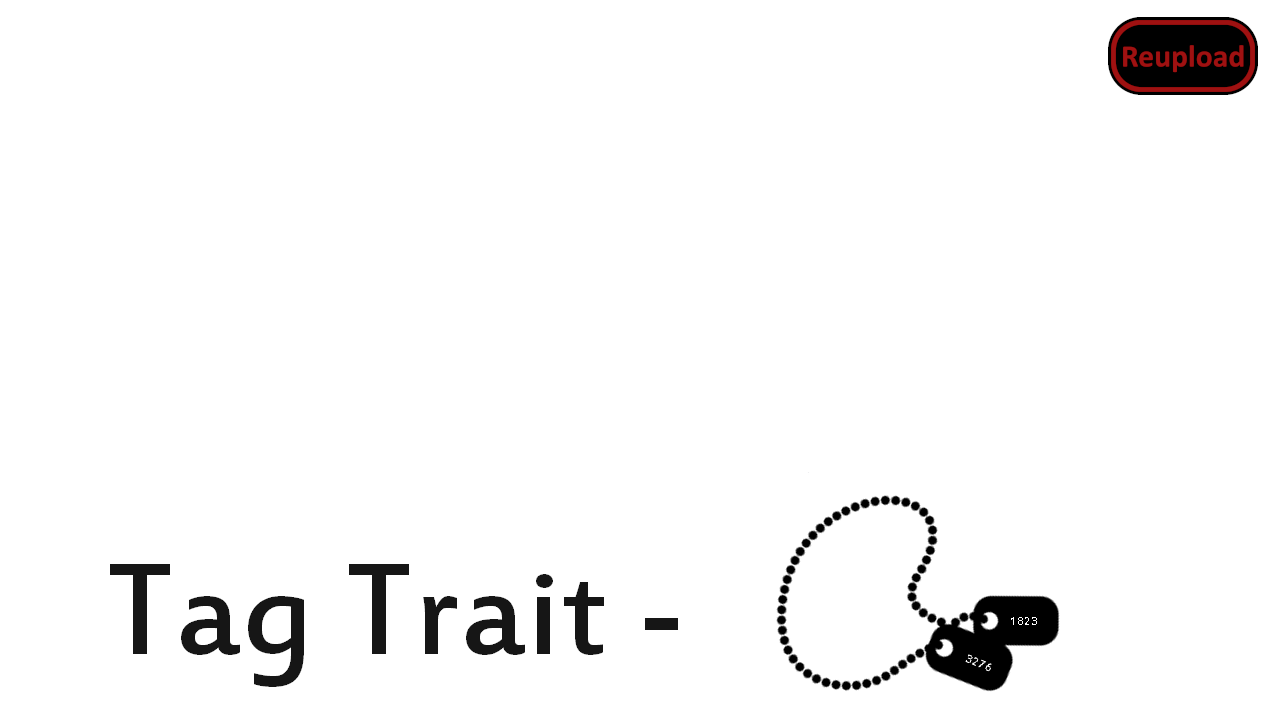
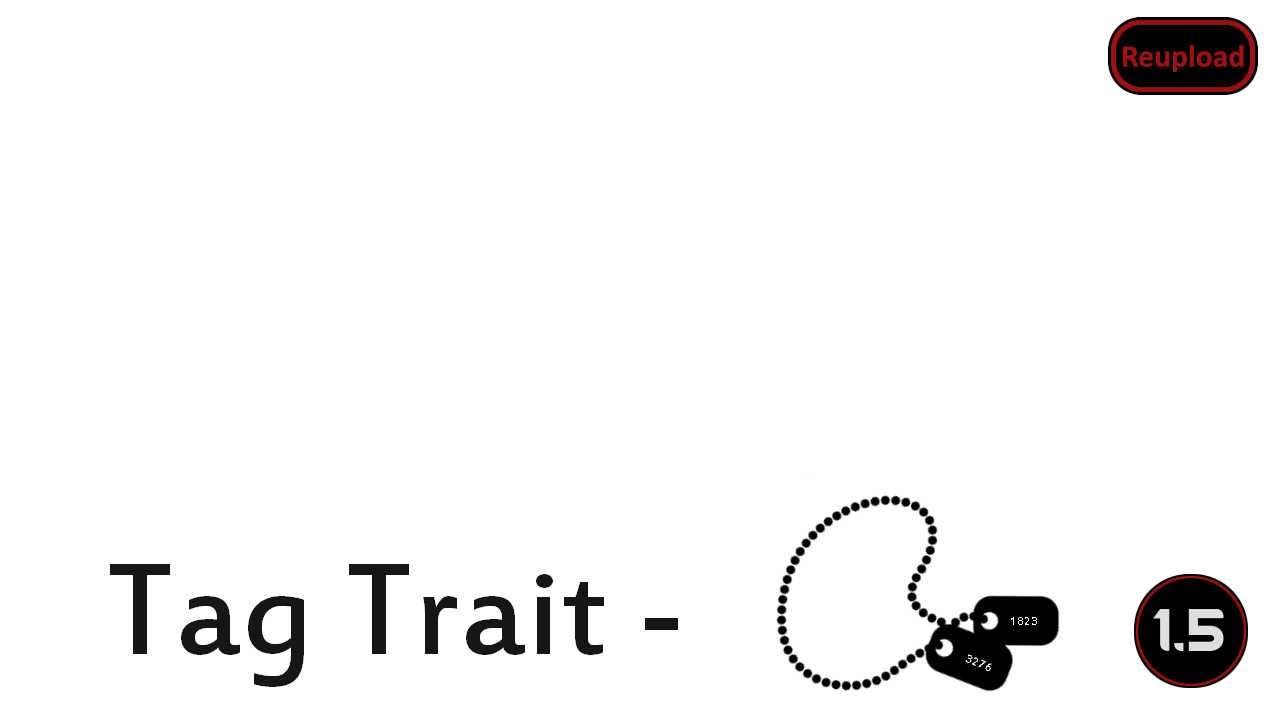
Mod updated for 1.5 and passed autotests

Changed region(s): [[0.875, 0.7944, 1.0, 0.9778]]

diff --git a/README.md b/README.md
@@ -27,11 +27,13 @@ Adds TAG Traits to the game for Pawns born while on Licuferum.
 
 -  See if the the error persists if you just have this mod and its requirements active.
 -  If not, try adding your other mods until it happens again.
--  Post your error-log using https://steamcommunity.com/workshop/filedetails/?id=818773962]HugsLib and command Ctrl+F12
+-  Post your error-log using https://steamcommunity.com/workshop/filedetails/?id=818773962]HugsLib or the standalone https://steamcommunity.com/sharedfiles/filedetails/?id=2873415404]Uploader and command Ctrl+F12
 -  For best support, please use the Discord-channel for error-reporting.
 -  Do not report errors by making a discussion-thread, I get no notification of that.
 -  If you have the solution for a problem, please post it to the GitHub repository.
+-  Use https://github.com/RimSort/RimSort/releases/latest]RimSort to sort your mods
 
 
 
+https://steamcommunity.com/sharedfiles/filedetails/changelog/2018264580]![Image](https://img.shields.io/github/v/release/emipa606/TagTrait?label=latest%20version&style=plastic&color=9f1111&labelColor=black)
 
